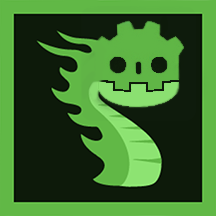
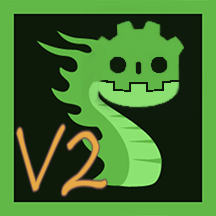
替换图标 - v2.0.0

Changed region(s): [[0.2778, 0.5833, 0.5, 0.9167], [0.0556, 0.5556, 0.3056, 0.8889]]

diff --git a/build_version.py b/build_version.py
@@ -1,6 +1,6 @@
 #!/usr/bin/env python
 import sys
 
-version = "v2.0.0-dev"
+version = "v2.0.0"
 
 print("BUILD_VERSION=" + version)
